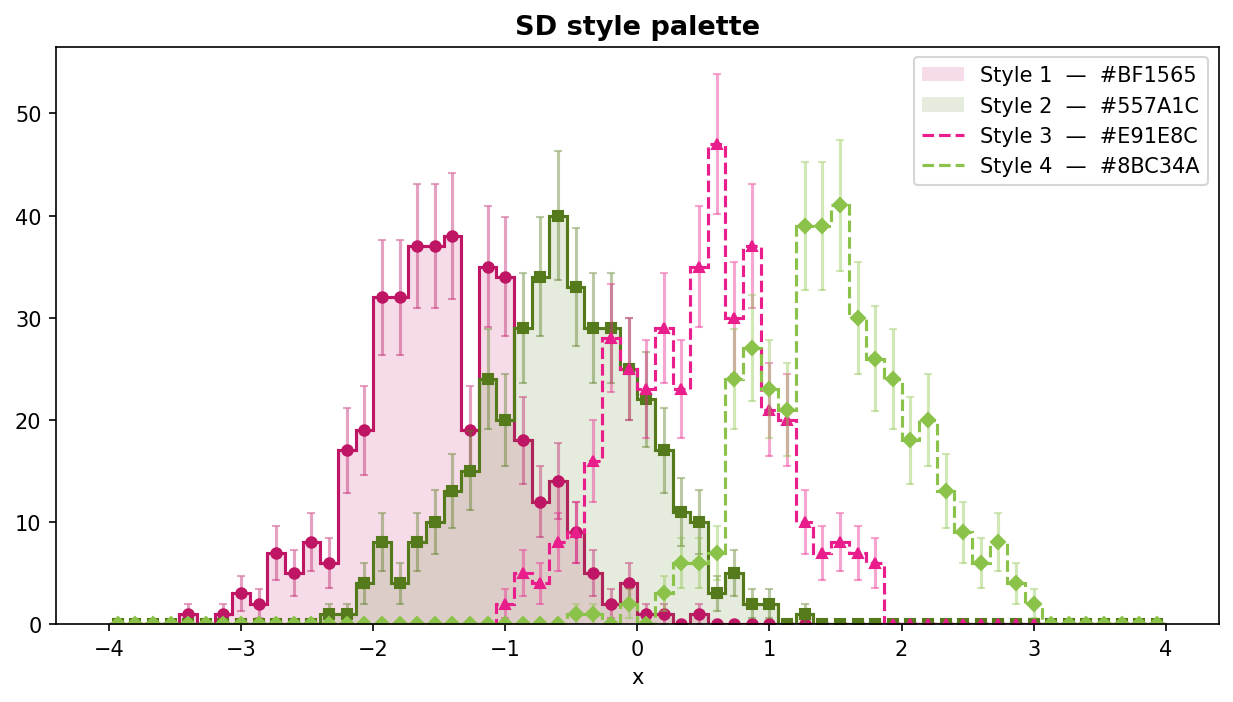
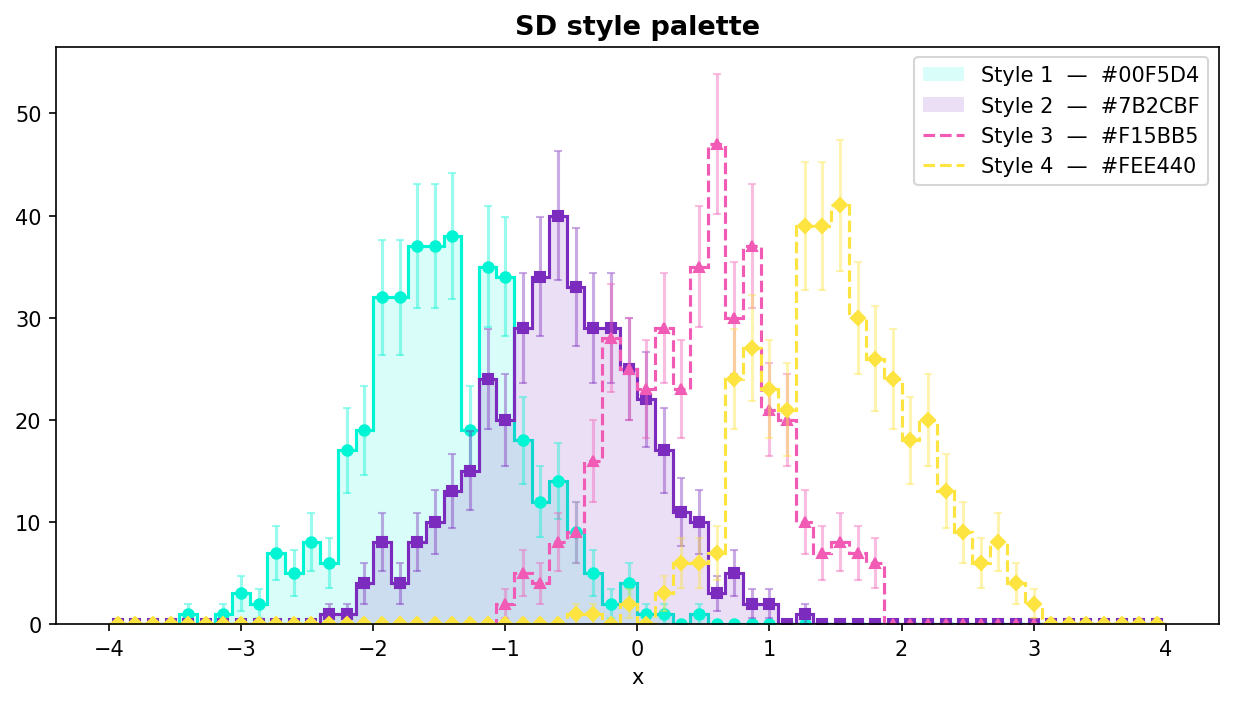
feat: tighten ratio-panel gap and update SD color palette
Halve the vertical spacing between main and ratio panels in both the
matplotlib backend (hspace 0.2 → 0.1) and the plotly backend
(vertical_spacing 0.05 → 0.025).

Replace the SD palette with a vibrant four-color set:
teal #00F5D4, purple #7B2CBF, pink #F15BB5, yellow #FEE440.

diff --git a/unrooted/plot/mpl/overlay.py b/unrooted/plot/mpl/overlay.py
@@ -41,7 +41,7 @@ def overlay(
 
     if ratio:
         _, subaxes = plt.subplots(
-            2, 1, gridspec_kw={"height_ratios": [3, 1]}, sharex=True
+            2, 1, gridspec_kw={"height_ratios": [3, 1], "hspace": 0.1}, sharex=True
         )
         main_ax = cast(MplAxes, subaxes[0])
         ax_ratio = cast(MplAxes, subaxes[1])

diff --git a/unrooted/plot/plotly/overlay.py b/unrooted/plot/plotly/overlay.py
@@ -44,7 +44,7 @@ def overlay(
             cols=1,
             row_heights=[3, 1],
             shared_xaxes=True,
-            vertical_spacing=0.05,
+            vertical_spacing=0.025,
         )
     else:
         fig = go.Figure()